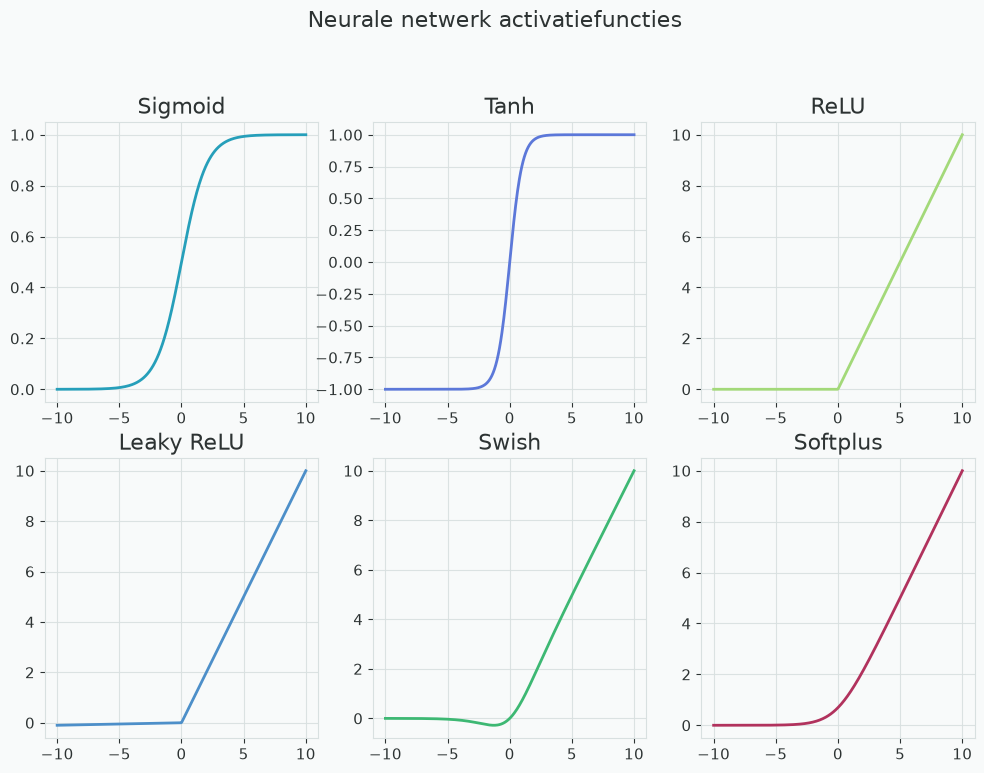
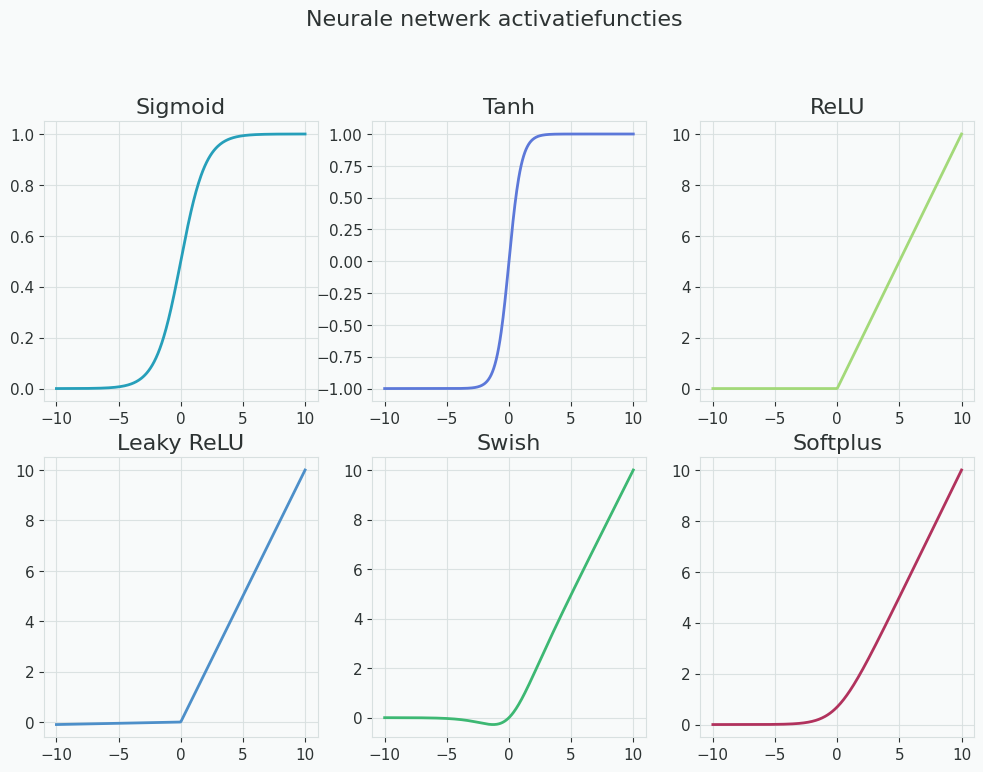
using own plot config

diff --git a/CCPlots/implementation/NeuralNetworkActivationFunctionsExample.py b/CCPlots/implementation/NeuralNetworkActivationFunctionsExample.py
@@ -1,33 +1,25 @@
+"""
+2 x 3 subplot grid of six common neural-network activation functions:
+Sigmoid, Tanh, ReLU, Leaky ReLU, Swish, and Softplus. Each curve is
+drawn in a distinct Bitroot palette colour.
+
+Figures
+-------
+- ``neural_network_activation_functions.png`` / ``_NL.png`` — 2x3 activation grid
+
+Configuration
+-------------
+``CCPlots/plot_configs/neural_network_activation.json``
+"""
 import numpy as np
-import matplotlib.pyplot as plt
 
 from CCPlots.PlotExample import PlotExample
-from CCPlots.config import BITROOT_PALETTE, apply_bitroot_style, output_path
+from CCPlots.config import BITROOT_PALETTE
 
 
-TEXT_BY_LOCALE = {
-    "en": {
-        "title": "Neural Network Activation Functions",
-        "sigmoid": "Sigmoid",
-        "tanh": "Tanh",
-        "relu": "ReLU",
-        "leaky_relu": "Leaky ReLU",
-        "swish": "Swish",
-        "softplus": "Softplus",
-    },
-    "nl": {
-        "title": "Neurale netwerk activatiefuncties",
-        "sigmoid": "Sigmoid",
-        "tanh": "Tanh",
-        "relu": "ReLU",
-        "leaky_relu": "Leaky ReLU",
-        "swish": "Swish",
-        "softplus": "Softplus",
-    },
-}
+class NeuralNetworkActivationFunctions(PlotExample):
 
-
-class NeuralNetworkActivationFunctionsExample(PlotExample):
+    CONFIG_KEY = "neural_network_activation"
 
     primary = BITROOT_PALETTE["primary"]
     secondary = BITROOT_PALETTE["secondary"]
@@ -50,25 +42,20 @@ class NeuralNetworkActivationFunctionsExample(PlotExample):
             (self.softplus, self.highlight, "softplus"),
         ]
 
-        for locale, labels in (("en", TEXT_BY_LOCALE["en"]), ("nl", TEXT_BY_LOCALE["nl"])):
-            fname = f"neural_network_activation_functions{'_NL' if locale == 'nl' else ''}.png"
-
-            fig, axs = plt.subplots(2, 3, figsize=(12, 8),
-                                    facecolor=BITROOT_PALETTE['background'])
-            fig.patch.set_facecolor(BITROOT_PALETTE['background'])
+        for _locale, labels, suffix in self.iter_locales():
+            fig, axs = self.create_figure(nrows=2, ncols=3)
 
             for idx, (func, color, key) in enumerate(func_specs):
                 row, col = divmod(idx, 3)
                 ax = axs[row, col]
                 ax.plot(x, func(x), color=color, linewidth=2)
                 ax.set_title(labels[key], color=BITROOT_PALETTE['text'])
-                apply_bitroot_style(ax, background=BITROOT_PALETTE['background'])
+                self.apply_style(ax)
                 ax.grid(True, color=self.light_gray)
 
             fig.suptitle(labels["title"], fontsize=16, color=BITROOT_PALETTE['text'], y=1.02)
 
-            fig.savefig(output_path(fname), bbox_inches='tight', pad_inches=0.1)
-            plt.close(fig)
+            self.save_figure(fig, "default", suffix=suffix)
 
     def sigmoid(self, x):
         return 1 / (1 + np.exp(-x))
